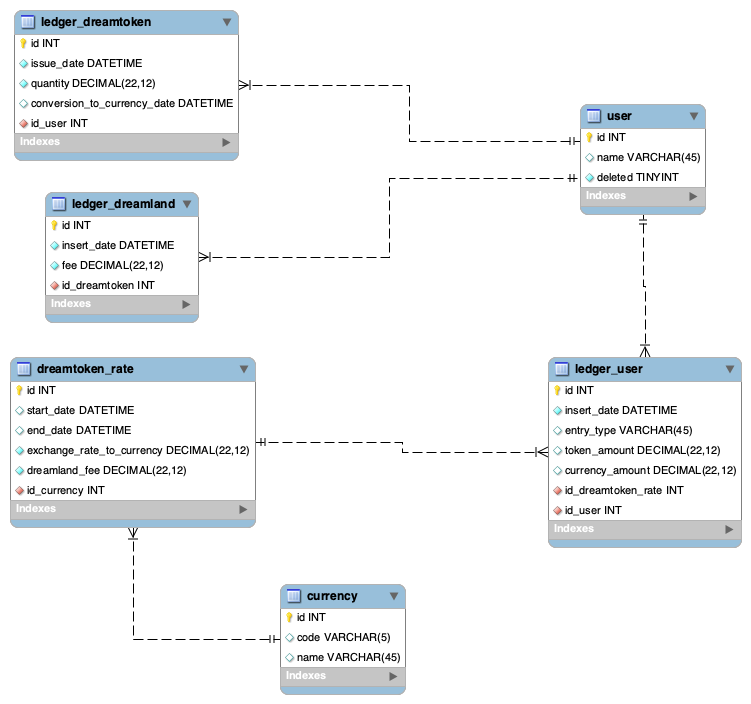
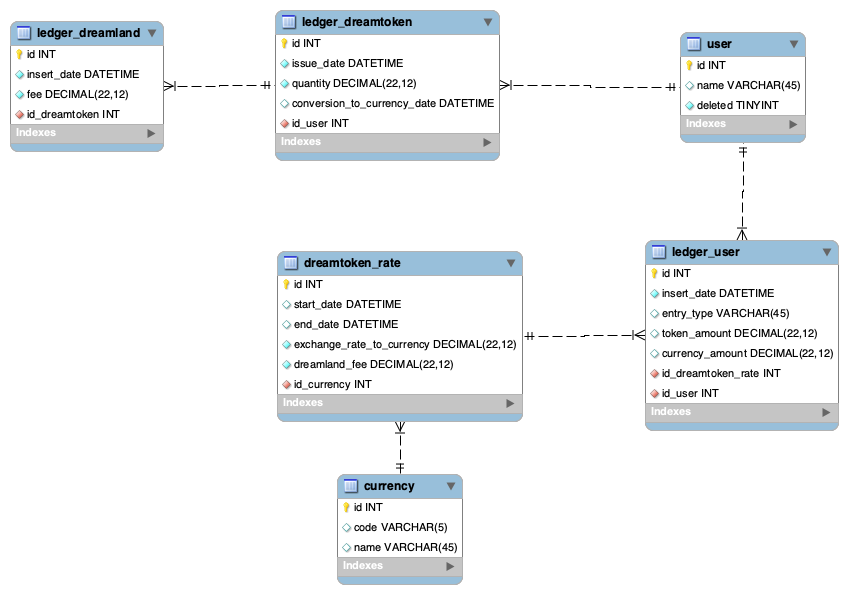
generation token code, ER update, fixes

diff --git a/src/main/java/com/dreamland/dreamtoken/service/ConvertTokensToCurrencyService.java b/src/main/java/com/dreamland/dreamtoken/service/ConvertTokensToCurrencyService.java
@@ -1,0 +1,94 @@
+package com.dreamland.dreamtoken.service;
+
+import com.dreamland.dreamtoken.entity.*;
+import com.dreamland.dreamtoken.repository.*;
+import org.springframework.beans.factory.annotation.Autowired;
+import org.springframework.scheduling.annotation.Scheduled;
+import org.springframework.stereotype.Service;
+import org.springframework.transaction.annotation.Propagation;
+import org.springframework.transaction.annotation.Transactional;
+
+import java.util.Date;
+import java.util.List;
+import java.util.Optional;
+
+import static com.dreamland.dreamtoken.entity.LedgerUserEntity.EntryType.CONVERT_TO_CURRENCY;
+import static com.dreamland.dreamtoken.entity.LedgerUserEntity.EntryType.FEE_AFTER_CONVERT;
+
+@Service
+public class ConvertTokensToCurrencyService {
+
+    @Autowired
+    private LedgerDreamtokenRepository ledgerDreamtokenRepository;
+
+    @Autowired
+    private LedgerUserRepository ledgerUserRepository;
+
+    @Autowired
+    private LedgerDreamlandRepository ledgerDreamlandRepository;
+
+    @Autowired
+    private DreamtokenRateRepository dreamtokenRateRepository;
+
+    @Autowired
+    private CurrencyRepository currencyRepository;
+
+    @Scheduled(cron = "0 0 * * * ?") //Every hour at hh:00:00
+    public void convertToCurrency() {
+
+        Iterable<CurrencyEntity> currencyEntities = currencyRepository.findAll();
+
+        for (CurrencyEntity currencyEntity: currencyEntities){
+            //List of the tokens to be converted
+            List<LedgerDreamtokenEntity> ledgerDreamtokenEntityList = ledgerDreamtokenRepository.findByConversionToCurrencyDateIsNull();
+
+            for(LedgerDreamtokenEntity ledgerDreamtoken: ledgerDreamtokenEntityList) {
+                //rates token/currency and fee to apply
+                Optional<DreamtokenRateEntity> dreamtokenRateEntity = dreamtokenRateRepository.findByCurrencyIdAndStartDateBeforeAndEndDateAfter(currencyEntity.getId(), new Date(), new Date());
+
+                if (dreamtokenRateEntity.isPresent()) {
+                    populateLedgerTables(ledgerDreamtoken, dreamtokenRateEntity);
+                }
+                else {
+                    // log error here
+                    // configuration issue no rates are configured for the currency
+                }
+            }
+        }
+    }
+
+    @Transactional(propagation = Propagation.REQUIRES_NEW)
+    public void populateLedgerTables(LedgerDreamtokenEntity ledgerDreamtoken, Optional<DreamtokenRateEntity> dreamtokenRateEntity) {
+        DreamtokenRateEntity rate = dreamtokenRateEntity.get();
+
+        LedgerUserEntity ledgerUserEntityCredit = new LedgerUserEntity();
+        ledgerUserEntityCredit.setUser(ledgerDreamtoken.getUser());
+        ledgerUserEntityCredit.setInsertDate(new Date());
+        ledgerUserEntityCredit.setEntryType(CONVERT_TO_CURRENCY);
+        ledgerUserEntityCredit.setDreamtokenRate(rate);
+        ledgerUserEntityCredit.setCurrencyAmount(rate.getExchangeRateToCurrency().multiply(ledgerDreamtoken.getQuantity()));
+        ledgerUserEntityCredit.setTokenAmount(ledgerDreamtoken.getQuantity());
+        ledgerUserRepository.save(ledgerUserEntityCredit);
+
+
+        LedgerUserEntity ledgerUserEntityDebit = new LedgerUserEntity();
+        ledgerUserEntityDebit.setUser(ledgerDreamtoken.getUser());
+        ledgerUserEntityDebit.setInsertDate(new Date());
+        ledgerUserEntityDebit.setEntryType(FEE_AFTER_CONVERT);
+        ledgerUserEntityDebit.setDreamtokenRate(rate);
+        ledgerUserEntityDebit.setCurrencyAmount(rate.getDreamlandFee().negate());
+        ledgerUserRepository.save(ledgerUserEntityDebit);
+
+
+        LedgerDreamlandEntity ledgerDreamlandEntity = new LedgerDreamlandEntity();
+        ledgerDreamlandEntity.setLedgerDreamtoken(ledgerDreamtoken);
+        ledgerDreamlandEntity.setFee(rate.getDreamlandFee());
+        ledgerDreamlandEntity.setInsertDate(new Date());
+
+        ledgerDreamlandRepository.save(ledgerDreamlandEntity);
+
+        //set conversionToCurrencyDate
+        ledgerDreamtoken.setConversionToCurrencyDate(new Date());
+        ledgerDreamlandRepository.save(ledgerDreamlandEntity);
+    }
+}

diff --git a/src/main/java/com/dreamland/dreamtoken/controller/ConvertTokensToCurrencyController.java b/src/main/java/com/dreamland/dreamtoken/controller/ConvertTokensToCurrencyController.java
@@ -1,0 +1,25 @@
+package com.dreamland.dreamtoken.controller;
+
+import com.dreamland.dreamtoken.service.ConvertTokensToCurrencyService;
+import org.springframework.beans.factory.annotation.Autowired;
+import org.springframework.http.HttpStatus;
+import org.springframework.http.ResponseEntity;
+import org.springframework.stereotype.Controller;
+import org.springframework.web.bind.annotation.PostMapping;
+import org.springframework.web.bind.annotation.ResponseBody;
+
+@Controller
+public class ConvertTokensToCurrencyController {
+
+    @Autowired
+    private ConvertTokensToCurrencyService convertTokensToCurrencyService;
+
+    @PostMapping(path = "/convert-tokens")
+    public @ResponseBody
+    ResponseEntity<Void> convertToCurrency() {
+
+        convertTokensToCurrencyService.convertToCurrency();
+        return new ResponseEntity(HttpStatus.OK);
+    }
+
+}

diff --git a/src/main/java/com/dreamland/dreamtoken/service/StatsService.java b/src/main/java/com/dreamland/dreamtoken/service/StatsService.java
@@ -29,7 +29,7 @@ public class StatsService {
         List<LedgerDreamtokenEntity> ledgerDreamtokenEntityList = ledgerDreamtokenRepository.findByUserIdAndIssueDateBetween(userId, midnightToday, new Date());
         BigDecimal tempSumToken = BigDecimal.ZERO;
         for (LedgerDreamtokenEntity ledgerDreamtoken : ledgerDreamtokenEntityList){
-            tempSumToken.add(ledgerDreamtoken.getQuantity());
+            tempSumToken = tempSumToken.add(ledgerDreamtoken.getQuantity());
         }
         statsResponseDto.setTokenSumCurrentDay(tempSumToken);
 

diff --git a/src/main/java/com/dreamland/dreamtoken/repository/DreamtokenRateRepository.java b/src/main/java/com/dreamland/dreamtoken/repository/DreamtokenRateRepository.java
@@ -1,0 +1,14 @@
+package com.dreamland.dreamtoken.repository;
+
+import com.dreamland.dreamtoken.entity.DreamtokenRateEntity;
+
+import org.springframework.data.repository.CrudRepository;
+
+import java.util.Date;
+import java.util.Optional;
+
+
+public interface DreamtokenRateRepository extends CrudRepository<DreamtokenRateEntity, Integer> {
+   Optional<DreamtokenRateEntity> findByCurrencyIdAndStartDateBeforeAndEndDateAfter(Integer id, Date startDateAfter, Date endDateBefore);
+
+}

diff --git a/src/main/java/com/dreamland/dreamtoken/DreamtokenApplication.java b/src/main/java/com/dreamland/dreamtoken/DreamtokenApplication.java
@@ -2,8 +2,10 @@ package com.dreamland.dreamtoken;
 
 import org.springframework.boot.SpringApplication;
 import org.springframework.boot.autoconfigure.SpringBootApplication;
+import org.springframework.scheduling.annotation.EnableScheduling;
 
 @SpringBootApplication
+@EnableScheduling
 public class DreamtokenApplication {
 
 	public static void main(String[] args) {

diff --git a/src/main/java/com/dreamland/dreamtoken/repository/LedgerDreamtokenRepository.java b/src/main/java/com/dreamland/dreamtoken/repository/LedgerDreamtokenRepository.java
@@ -9,4 +9,6 @@ import java.util.List;
 public interface LedgerDreamtokenRepository extends CrudRepository<LedgerDreamtokenEntity, Integer> {
 
     List<LedgerDreamtokenEntity> findByUserIdAndIssueDateBetween(Integer idUser, Date startDate, Date endDate);
+
+    List<LedgerDreamtokenEntity> findByConversionToCurrencyDateIsNull();
 }

diff --git a/src/main/java/com/dreamland/dreamtoken/entity/LedgerDreamlandEntity.java b/src/main/java/com/dreamland/dreamtoken/entity/LedgerDreamlandEntity.java
@@ -22,4 +22,8 @@ public class LedgerDreamlandEntity {
     @Column(name = "fee")
     private BigDecimal fee;
 
+    @ManyToOne
+    @JoinColumn(name = "id_dreamtoken", referencedColumnName = "id", nullable = false)
+    private LedgerDreamtokenEntity ledgerDreamtoken;
+
 }

diff --git a/src/main/java/com/dreamland/dreamtoken/repository/CurrencyRepository.java b/src/main/java/com/dreamland/dreamtoken/repository/CurrencyRepository.java
@@ -1,0 +1,7 @@
+package com.dreamland.dreamtoken.repository;
+
+import com.dreamland.dreamtoken.entity.CurrencyEntity;
+import org.springframework.data.repository.CrudRepository;
+
+public interface CurrencyRepository extends CrudRepository<CurrencyEntity, Integer> {
+}

diff --git a/README.md b/README.md
@@ -2,7 +2,10 @@
 ## Questions
 - Database table design given the APIs above
 > SQL scripts of the DB are in src/resources/ddl_scripts.sql
-<img src="./dreamland_er.png">
+> 
+> ER is dreamland_er.png
+> 
+> <img src="./dreamland_er.png">
 
 - Database needs to have a solid double-entry ledger to track the tokens and USD (might make sense to read up about ledgers - some great sources here and here). Let's design ledgers for both the tokens and USD
 > I see you have put some references into the gist, I took a first read, but I need to learn more of the functional / financial aspect.
@@ -11,13 +14,16 @@
 > I have used SQL DECIMAL (22,12) which means 10 digits before the comma and 12 digits after the comma. It can be extended up to 35 digits if needed
 
 - Edge cases - list some edge cases both in APIs and database that you will handle
-> I have thought at the scenario if a User has less than 5 tokens, for example 4.80 and win 0.5 it should be trimmed to 0.2 to get 5 tokens in total
+>- I thought at a DB structure you can have multiple currency, and multiple exchange currency rate (past or future) for the same currency, and configurable fee (fixed in absolute currency value per transaction)
+>- if a user has less than 5 tokens, for example 4.80 and win 0.5 it should be trimmed to 0.2 to get 5 tokens in total
 
 - Any other APIs and tools you can think of (no need to implement)
->- Error handling: there are just thrown 400 errors for bad requests, 404 for endpoint not mapped or 500 in case of server error (generically)
->- Security: all the APIS are not secured, I'd suggest to setup an authentication mechanism
+>- Automated Tests: not implemented at all
+>- Error handling: there are thrown 400 errors for bad requests, 404 for endpoint not mapped or 500 in case of server error (generically), for example /stats/3 should respond a 404, after the user reaches 5 tokens, it should return a failure, or if rates is miscondigured... etc etc
+>- Security: all the APIs are not secured, I'd suggest to setup an authentication mechanism
 >- Logging and alerting: not implemented at all
 >- There's no possibility to add dynamically a user (must be done manually into DB)
+>- Table keys are Integer type (+2M range values), to make implementation easier but this might be not working for huge numbers
 
 - Infrastructure - This is a global system with customers across the world. Let's discuss more about setting up the infra, how to share data across different regions, how to solve for region-specific data for issues like GDPR, how to replicate some tables out of a region to a central cluster for analytics, etc. This is just a textual answer with maybe some design diagrams
 > The GDPR topic is really wide, the simplest solution I can think is having separate instances of the applications 1 for EU and 1 outside EU, don't know if this is doable in the "Metaverse" scope.
